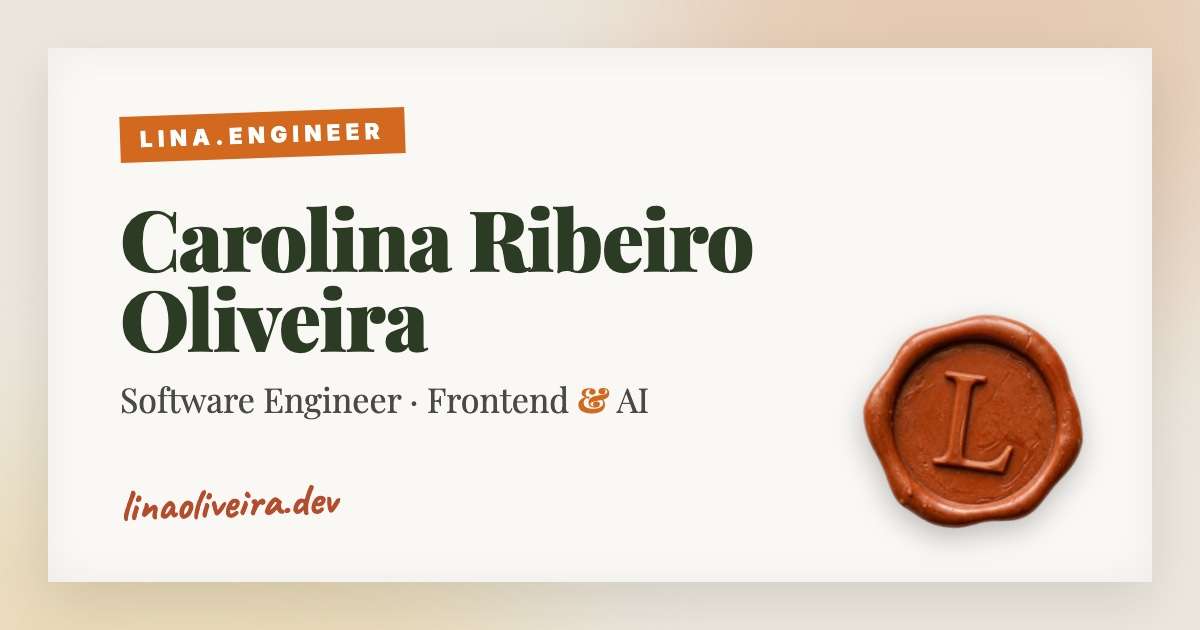
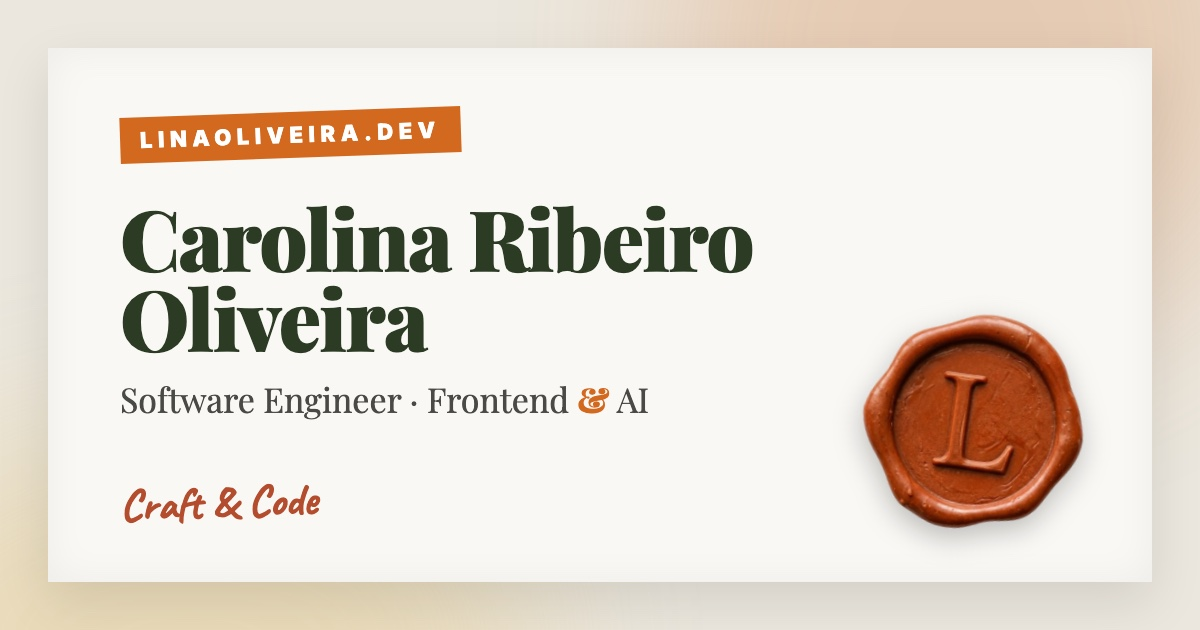
Revise portfolio content: unified name, bio, trajectory, project and SEO texts, mobile title fix

Changed region(s): [[0.1233, 0.1508, 0.4008, 0.2714], [0.0925, 0.754, 0.2775, 0.8444]]

diff --git a/composables/usePortfolio.ts b/composables/usePortfolio.ts
@@ -28,8 +28,7 @@ export const usePortfolio = () => {
   const bio = {
     name: 'Carolina Ribeiro Oliveira',
     title: 'Software Engineer',
-    yearsOfExperience: 6,
-    philosophy: 'Software Engineer bridging Frontend precision with AI Engineering. Focused on building solutions that prioritize user experience and product value.'
+    philosophy: 'Software Engineer bridging frontend precision and AI engineering to build products that put people first.'
   }
 
   const projects: Project[] = [
@@ -61,7 +60,7 @@ export const usePortfolio = () => {
       logo: '/assets/images/projects/itinera-logo.svg',
       tagline: 'Trips planned around real travel times.',
       summary: 'A collaborative trip planner that turns a list of places into an optimized day-by-day itinerary.',
-      description: 'Built to turn a list of places into a realistic trip. It plans each day around hotels, opening hours and real travel times, combining geo-clustering, a route solver and Gemini to optimize the order, and lets travel companions plan together through shared trips and QR invites.',
+      description: 'Born from a 14-day trip to New York that I planned entirely by hand: amazing, but impossible to repeat for every trip. Itinera does that work for me. It plans each day around hotels, opening hours and real travel times, combining geo-clustering, a route solver and Gemini to optimize the order, and lets travel companions plan together through shared trips and QR invites.',
       tech: ['Next.js 16', 'React 19', 'DynamoDB', 'Gemini', 'Google Maps', 'Playwright'],
       features: [
         'Hybrid Itinerary Optimizer (Clustering + TSP + AI)',
@@ -74,7 +73,8 @@ export const usePortfolio = () => {
         github: '#'
       },
       category: 'TravelApplication',
-      platforms: 'Web'
+      platforms: 'Web',
+      status: 'Interface in Portuguese'
     }
   ]
 
@@ -83,14 +83,14 @@ export const usePortfolio = () => {
       year: '2016 - 2022',
       role: 'The Click',
       company: 'University',
-      description: 'I stumbled into software engineering, as one does. During college, I built a website for my then-boyfriend’s project. He got a 98, I got a career, and eventually, a breakup. Worth it. That weekend something clicked. I was a student who hadn\'t yet found her direction, and suddenly there it was. From that point on, I threw myself into everything: elective classes, extracurriculars, and event organization. I was figuring it out, but at least now I knew which direction to figure it out in.',
+      description: 'I stumbled into software engineering. During college, I built a website for my then-boyfriend’s project. He got a 98, I got a career, and eventually, a breakup. Worth it. That weekend something clicked. I was a student who hadn\'t yet found her direction, and suddenly there it was. From that point on, I threw myself into everything: elective classes, extracurriculars, and event organization. I was figuring it out, but at least now I knew which direction to figure it out in.',
       highlights: []
     },
     {
       year: '2019',
       role: 'Frontend Intern',
       company: 'Smarti9',
-      description: 'It started at Smarti9, where I was thrown into the deep end almost immediately. The other front-end developer left right as I arrived, leaving me completely on my own. No handoff, no guidance. I became 100% self-taught out of necessity, and honestly, it set the tone for everything that came after.',
+      description: 'My first job was at Smarti9, and I was on my own almost from day one. The other front-end developer left right as I arrived: no handoff, no guidance. I had to teach myself everything on the job, and honestly, it set the tone for everything that came after.',
       highlights: []
     },
     {
@@ -104,14 +104,14 @@ export const usePortfolio = () => {
       year: '2020 - 2021',
       role: 'Software Engineer',
       company: 'BizCapital',
-      description: 'At Biz, my first real job, I became the engineer I am today: someone who does whatever needs doing: Front-end, back-end, mobile, all of it. The highlight? I built BizCapital\'s Pix integration from scratch, right as Brazil\'s now-ubiquitous instant payment system was launching. I\'m incredibly proud of that.',
+      description: 'At Biz, where my career really began, I became the engineer I am today, someone who does whatever needs doing: front-end, back-end, mobile, all of it. The highlight? I built BizCapital\'s Pix integration from scratch, right as Brazil\'s now-ubiquitous instant payment system was launching. I\'m incredibly proud of that.',
       highlights: []
     },
     {
       year: '2021 - 2024',
       role: 'Senior Frontend Engineer',
       company: 'Andela',
-      description: 'Then Andela knocked on the door, and it felt like a dream. My first international opportunity. I was thriving and promoted, but layoffs started creeping in and I let fear get the better of me. I left, and I\'ll admit, I regret it. Looking for a fresh start, I landed at LettrLabs.',
+      description: 'Then Andela knocked on the door, and it felt like a dream: my first international opportunity. I was thriving and even got promoted, but when layoffs started creeping in, I let fear get the better of me and left. I\'ll admit I regret it, and it taught me to make decisions from clarity, not fear. Looking for a fresh start, I landed at LettrLabs.',
       highlights: []
     },
     {
@@ -149,11 +149,16 @@ export const usePortfolio = () => {
     ],
     knowsAbout: [
       'Frontend Engineering',
-      'AI Software Engineering',
+      'AI Engineering',
       'React',
+      'TypeScript',
       'Next.js',
-      'Nuxt 3',
-      'Multi-agent systems'
+      'Nuxt',
+      'Python',
+      'Kotlin',
+      'Multi-agent systems',
+      'LangChain',
+      'Model Context Protocol (MCP)'
     ]
   }
 

diff --git a/components/AboutHiddenLayer.vue b/components/AboutHiddenLayer.vue
@@ -103,7 +103,7 @@ onUnmounted(() => {
 
               <h2 class="text-[10px] font-black uppercase tracking-[0.3em] text-ink/70 mb-6">The Core</h2>
               <p class="font-serif text-lg leading-relaxed text-ink/90 mix-blend-multiply">
-                In my work and my life, transparency is the foundation of everything. I am an entirely open person and I value absolute honesty, both from myself to others and vice versa. What you see is exactly what you get.
+                Transparency is the foundation of how I work and live, and it starts with communication. I'm open by nature and I value honest conversations in both directions. I also believe the obvious needs to be said: what goes unspoken is where misunderstandings grow.
               </p>
             </div>
             
@@ -119,7 +119,7 @@ onUnmounted(() => {
               <div class="mt-12 md:mt-0">
                 <h2 class="text-[10px] font-black uppercase tracking-[0.3em] text-ink/70 mb-6">Beyond the Screen</h2>
                 <p class="font-serif text-lg leading-relaxed text-ink/90 mix-blend-multiply">
-                  Away from the keyboard, I seek a simple and calm life. I share my days with my 5 pets, surrounding myself with nature and consuming art in all its forms, without exceptions.
+                  Away from the keyboard, I chase a calm life, though my five pets make sure it never gets too quiet. The rest of my time goes to puzzles and art in every form I can find.
                 </p>
               </div>
             </div>

diff --git a/pages/projects.vue b/pages/projects.vue
@@ -4,8 +4,8 @@ const { bio, projects, siteUrl, personId } = usePortfolio()
 useSeoMeta({
   title: `Projects | ${bio.name}`,
   ogTitle: `Engineering Projects | ${bio.name}`,
-  description: 'A curated showcase of engineering precision, from instant payment systems to AI-powered micro-services.',
-  ogDescription: 'Explore the workbench of Carolina Oliveira, featuring Frontend and AI Engineering projects.',
+  description: `Personal projects by ${bio.name}: Nudge, a mobile-first habit tracker, and Itinera, an AI-assisted trip planner built around real travel times.`,
+  ogDescription: `Explore the workbench of ${bio.name}, featuring Frontend and AI Engineering projects.`,
 })
 
 useHead({
@@ -53,7 +53,7 @@ useHead({
 
     <div class="max-w-7xl mx-auto relative">
       <header class="mb-32 text-center relative z-20 pt-16 md:pt-0">
-        <h1 class="text-6xl md:text-9xl font-black uppercase tracking-tighter mix-blend-multiply mb-4 animate-in fade-in slide-in-from-top-12">
+        <h1 class="text-5xl sm:text-6xl md:text-9xl font-black uppercase tracking-tighter mix-blend-multiply mb-4 animate-in fade-in slide-in-from-top-12">
           <span class="sr-only">Software Engineering Portfolio - </span>Work<span class="text-terra-orange">bench</span>
         </h1>
         <p class="font-handwriting text-2xl md:text-4xl text-ink/60 -rotate-1 animate-in fade-in slide-in-from-bottom-8 delay-300">

diff --git a/pages/experience.vue b/pages/experience.vue
@@ -4,7 +4,7 @@ const { bio, experience, siteUrl, personSchema } = usePortfolio()
 useSeoMeta({
   title: `Experience | ${bio.name}`,
   ogTitle: `Professional Trajectory | ${bio.name}`,
-  description: `Professional journey of ${bio.name}, from Frontend Intern to AI Software Engineer at iFood. Expert in React, Nuxt, and AI multi-agent systems.`,
+  description: `The career path of ${bio.name}, from frontend intern to AI Software Engineer at iFood, with stops at BizCapital, Andela and LettrLabs.`,
   ogDescription: `Explore the career path of ${bio.name}, from building BizCapital's Pix integration at launch to AI Engineering at iFood.`,
 })
 
@@ -47,7 +47,7 @@ useHead({
 
     <div class="max-w-6xl mx-auto relative">
       <header class="mb-32 text-center relative z-20 pt-16 md:pt-0">
-        <h1 class="text-6xl md:text-9xl font-black uppercase tracking-tighter mix-blend-multiply mb-4 animate-in fade-in slide-in-from-top-12 duration-1000">
+        <h1 class="text-5xl sm:text-6xl md:text-9xl font-black uppercase tracking-tighter mix-blend-multiply mb-4 animate-in fade-in slide-in-from-top-12 duration-1000">
           <span class="sr-only">Professional Experience & </span>Trajec<span class="text-terra-orange">tory</span>
         </h1>
         <p class="font-handwriting text-2xl md:text-3xl text-ink/60 -rotate-2 animate-in fade-in slide-in-from-bottom-8 duration-1000 delay-300">

diff --git a/nuxt.config.ts b/nuxt.config.ts
@@ -6,13 +6,13 @@ export default defineNuxtConfig({
     pageTransition: { name: 'theme-fade', mode: 'out-in' },
     head: {
       htmlAttrs: { lang: 'en' },
-      title: 'Carolina Oliveira | Software Engineer',
+      title: 'Carolina Ribeiro Oliveira | Software Engineer',
       meta: [
-        { name: 'description', content: 'Software Engineer bridging Frontend precision with AI Engineering. Focused on user experience and product value.' },
+        { name: 'description', content: 'Software Engineer bridging frontend precision and AI engineering to build products that put people first.' },
         { name: 'author', content: 'Carolina Ribeiro Oliveira' },
         { name: 'theme-color', content: '#EBE7DE' },
         { property: 'og:type', content: 'website' },
-        { property: 'og:site_name', content: 'Lina Oliveira Portfolio' },
+        { property: 'og:site_name', content: 'Lina Oliveira' },
         { property: 'og:locale', content: 'en_US' },
         { property: 'og:image', content: `${siteUrl}/og-image.jpg` },
         { property: 'og:image:type', content: 'image/jpeg' },

diff --git a/pages/index.vue b/pages/index.vue
@@ -51,7 +51,7 @@ const isAboutOpen = ref(false)
       <div class="max-w-5xl mx-auto relative z-10 px-6 py-20">
         <header class="mb-24 flex flex-col items-start border-b border-ink/10 pb-12">
           <div class="inline-block p-2 px-4 bg-terra-orange text-white font-black text-sm tracking-widest uppercase mb-6 rotate-[-2deg] shadow-lg ink-bleed-text">
-            LINA.ENGINEER
+            LINAOLIVEIRA.DEV
           </div>
           <h1 class="text-5xl md:text-8xl font-black leading-none tracking-tighter uppercase mb-6 mix-blend-multiply">
             <span class="sr-only">{{ bio.name }}, {{ bio.title }}: </span>

diff --git a/components/ProjectItem.vue b/components/ProjectItem.vue
@@ -70,7 +70,7 @@ defineProps<{
           <!-- Subtle Postmark decoration -->
           <div class="absolute bottom-12 left-12 w-24 h-24 border-2 border-ink/5 rounded-full flex items-center justify-center -rotate-12 pointer-events-none opacity-40">
              <div class="text-[8px] font-black uppercase tracking-tighter text-ink/20 text-center">
-               ORIGINAL CRAFT<br/>LINA © 2025
+               ORIGINAL CRAFT<br/>LINA © {{ new Date().getFullYear() }}
              </div>
           </div>
 
